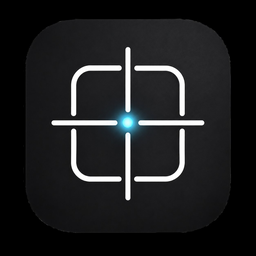
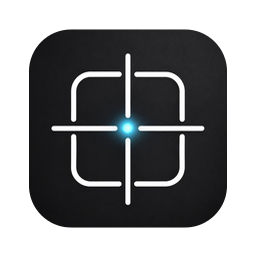
visual

diff --git a/public/index.html b/public/index.html
@@ -2966,15 +2966,22 @@ let micMuted = false;
 let peerConnections = {};
 let audioElements = {};
 
+// ── ICE SERVERS — базовая конфигурация ──
+// Дополнительные TURN серверы загружаются с сервера через /api/ice-servers
 const ICE_CONFIG = {
   iceCandidatePoolSize: 10,
   iceTransportPolicy: 'all',
   iceServers: [
+    // Google STUN — максимально надёжные
     { urls: 'stun:stun.l.google.com:19302' },
     { urls: 'stun:stun1.l.google.com:19302' },
+    { urls: 'stun:stun2.l.google.com:19302' },
+    { urls: 'stun:stun3.l.google.com:19302' },
+    { urls: 'stun:stun4.l.google.com:19302' },
+    // Cloudflare STUN
     { urls: 'stun:stun.cloudflare.com:3478' },
     { urls: 'stun:stun.stunprotocol.org:3478' },
-    // TURN: openrelay.metered.ca
+    // TURN: openrelay.metered.ca (fallback когда прямое соединение невозможно)
     { urls: 'turn:openrelay.metered.ca:80',
       username: 'openrelayproject', credential: 'openrelayproject' },
     { urls: 'turn:openrelay.metered.ca:80?transport=tcp',
@@ -2983,15 +2990,28 @@ const ICE_CONFIG = {
       username: 'openrelayproject', credential: 'openrelayproject' },
     { urls: 'turns:openrelay.metered.ca:443',
       username: 'openrelayproject', credential: 'openrelayproject' },
-    // TURN резервные
-    { urls: 'turn:freestun.net:3479',
-      username: 'free', credential: 'free' },
-    { urls: 'turns:freestun.net:5350',
-      username: 'free', credential: 'free' },
-    { urls: 'turn:numb.viagenie.ca',
-      username: '[email redacted]', credential: 'muazkh' },
+    // Резервные TURN
+    { urls: 'turn:freestun.net:3479',  username: 'free', credential: 'free' },
+    { urls: 'turns:freestun.net:5350', username: 'free', credential: 'free' },
   ]
 };
+
+// ── Загружаем TURN с сервера (Railway env vars → TURN_URL/TURN_USERNAME/TURN_CREDENTIAL) ──
+// Это позволяет добавить нормальные платные TURN без пересборки клиента
+(async function fetchIceServers() {
+  try {
+    const res = await fetch('/api/ice-servers');
+    if (!res.ok) return;
+    const data = await res.json();
+    if (data.iceServers && data.iceServers.length) {
+      // Добавляем серверные серверы ПЕРВЫМИ — они приоритетнее
+      ICE_CONFIG.iceServers = [...data.iceServers, ...ICE_CONFIG.iceServers];
+      console.log('[GRID ICE] Loaded', data.iceServers.length, 'server-side ICE servers');
+    }
+  } catch(e) {
+    // Не критично — используем встроенные серверы
+  }
+})();
 
 // ── VOICE DEVICE SETTINGS ──
 let voiceInputDeviceId = localStorage.getItem('grid_input_device') || '';
@@ -4300,9 +4320,9 @@ async function startCallWebRTC(peerUsername, isInitiator) {
     if (e.candidate) wsSend({ type: 'call_ice', to: peerUsername, candidate: e.candidate });
   };
 
-  callPc.ontrack = (e) => {
+  callPc.ontrack = async (e) => {
     if (e.track.kind !== 'audio') return;
-    console.log('[GRID WebRTC] ontrack — remote audio track received');
+    console.log('[GRID WebRTC] ontrack — remote audio track received, track state:', e.track.readyState);
 
     const outputGainRatio = (typeof outputGainValue !== 'undefined' ? outputGainValue : 200) / 100;
     const remoteStream = (e.streams && e.streams[0])
@@ -4315,14 +4335,42 @@ async function startCallWebRTC(peerUsername, isInitiator) {
       audio.id = 'call-remote-audio';
       audio.autoplay = true;
       audio.setAttribute('playsinline', '');
+      audio.setAttribute('webkit-playsinline', '');
       audio.style.display = 'none';
       document.body.appendChild(audio);
     }
-    // Сохраняем RAW поток — нужен для speaking detection analyser
+
+    // Сохраняем RAW поток для speaking detection analyser
     audio._rawStream = remoteStream;
 
+    // ── Функция воспроизведения — надёжная для Electron ──
+    // В Electron с autoplay-policy=no-user-gesture-required это всегда работает
+    // В браузере — требует gesture, поэтому вешаем несколько fallback
+    async function playAudio(audioEl) {
+      try {
+        await audioEl.play();
+        console.log('[GRID WebRTC] audio.play() success');
+      } catch(err) {
+        console.warn('[GRID WebRTC] audio.play() blocked:', err.name, '— adding interaction fallback');
+        // Множественные fallback для всех случаев
+        const retry = () => { audioEl.play().catch(e => console.warn('[GRID] retry play failed:', e)); };
+        document.addEventListener('pointerdown', retry, { once: true });
+        document.addEventListener('keydown',     retry, { once: true });
+        document.addEventListener('click',       retry, { once: true });
+      }
+    }
+
+    // ── Пытаемся использовать AudioContext для gain >100% ──
     try {
-      const outCtx = new (window.AudioContext || window.webkitAudioContext)();
+      const outCtx = new (window.AudioContext || window.webkitAudioContext)({ latencyHint: 'interactive', sampleRate: 48000 });
+
+      // КРИТИЧНО: resume() ДОЛЖЕН завершиться до createMediaStreamSource
+      // В Electron без autoplay-policy AudioContext стартует suspended
+      if (outCtx.state !== 'running') {
+        await outCtx.resume();
+        console.log('[GRID WebRTC] AudioContext resumed, state:', outCtx.state);
+      }
+
       const outSrc  = outCtx.createMediaStreamSource(remoteStream);
       const outGain = outCtx.createGain();
       outGain.gain.value = outputGainRatio;
@@ -4334,34 +4382,30 @@ async function startCallWebRTC(peerUsername, isInitiator) {
       audio.srcObject = outDest.stream;
       audio.volume = 1;
       audio.muted = callSoundMuted;
-      audio.play().catch(() => {
-        document.addEventListener('click', () => audio.play().catch(() => {}), { once: true });
-      });
       applySinkId(audio);
-      outCtx.resume().catch(() => {});
+      await playAudio(audio);
+
     } catch(err) {
-      console.warn('[GRID WebRTC] AudioContext fallback:', err.message);
+      // Fallback: напрямую без AudioContext — всегда работает
+      console.warn('[GRID WebRTC] AudioContext failed, using direct srcObject:', err.message);
       audio.srcObject = remoteStream;
-      audio.volume = Math.min(1, outputGainRatio);
+      audio.volume = Math.min(1, outputGainRatio); // Ограничено 100% без GainNode
       audio.muted = callSoundMuted;
-      audio.play().catch(() => {
-        document.addEventListener('click', () => audio.play().catch(() => {}), { once: true });
-      });
       applySinkId(audio);
+      await playAudio(audio);
       callOutputGainNode = { gain: {
         get value()  { return audio.volume; },
         set value(v) { audio.volume = Math.min(1, Math.max(0, v)); }
       }};
     }
 
-    // ── Перезапускаем speaking detection теперь когда аудио реально есть ──
-    // Небольшая задержка чтобы srcObject успел примениться
-    setTimeout(() => {
+    // ── Запускаем speaking detection с задержкой (srcObject должен "прогреться") ──
+    setTimeout(async () => {
       if (typeof startSpeakingDetection === 'function') {
-        console.log('[GRID WebRTC] Restarting speaking detection after ontrack');
-        startSpeakingDetection();
+        console.log('[GRID WebRTC] Starting speaking detection after ontrack');
+        await startSpeakingDetection();
       }
-    }, 400);
+    }, 500);
   };
 
   callPc.onconnectionstatechange = () => {
@@ -5503,7 +5547,7 @@ function resizeViz(canvas) {
 }
 
 // ── Speaking detection via Web Audio API ──
-function startSpeakingDetection() {
+async function startSpeakingDetection() {
   stopSpeakingDetection();
 
   const vizMe   = document.getElementById('viz-me');
@@ -5511,36 +5555,41 @@ function startSpeakingDetection() {
   resizeViz(vizMe);
   resizeViz(vizPeer);
 
-  // My mic → analyser
+  // ── МОЙ МИК → analyser ──
   if (callStream) {
     try {
-      const ctx = new (window.AudioContext || window.webkitAudioContext)();
+      const ctx = new (window.AudioContext || window.webkitAudioContext)({ latencyHint: 'interactive' });
+      if (ctx.state !== 'running') await ctx.resume();
       const src = ctx.createMediaStreamSource(callStream);
       speakAnalyserMe = ctx.createAnalyser();
       speakAnalyserMe.fftSize = 256;
       speakAnalyserMe.smoothingTimeConstant = 0.72;
       src.connect(speakAnalyserMe);
       speakBufMe = new Uint8Array(speakAnalyserMe.frequencyBinCount);
-    } catch(e) { console.warn('speakAnalyserMe failed', e); }
+      console.log('[GRID Speaking] My analyser ready, ctx state:', ctx.state);
+    } catch(e) { console.warn('[GRID Speaking] My analyser failed:', e); }
   }
 
-  // Peer audio → analyser
-  // Используем _rawStream (чистый WebRTC поток) а не srcObject (уже обработанный через GainNode)
+  // ── ПИРОВ АУДИО → analyser ──
+  // _rawStream = чистый WebRTC поток (до GainNode обработки) — нужен для корректного анализа
   const peerAudio = document.getElementById('call-remote-audio');
   const peerStream = peerAudio && (peerAudio._rawStream || peerAudio.srcObject);
-  if (peerStream) {
+  if (peerStream && peerStream.getAudioTracks().length > 0) {
     try {
-      const ctx = new (window.AudioContext || window.webkitAudioContext)();
+      const ctx = new (window.AudioContext || window.webkitAudioContext)({ latencyHint: 'interactive' });
+      // КРИТИЧНО: resume() ДОЛЖЕН завершиться до createMediaStreamSource
+      // Без этого в Electron analyser получает нулевые данные → анимация не работает
+      if (ctx.state !== 'running') await ctx.resume();
       const src = ctx.createMediaStreamSource(peerStream);
       speakAnalyserPeer = ctx.createAnalyser();
       speakAnalyserPeer.fftSize = 256;
       speakAnalyserPeer.smoothingTimeConstant = 0.72;
       src.connect(speakAnalyserPeer);
       speakBufPeer = new Uint8Array(speakAnalyserPeer.frequencyBinCount);
-      ctx.resume().catch(() => {});
-    } catch(e) { console.warn('speakAnalyserPeer failed', e); }
+      console.log('[GRID Speaking] Peer analyser ready, ctx state:', ctx.state, '| stream tracks:', peerStream.getAudioTracks().length);
+    } catch(e) { console.warn('[GRID Speaking] Peer analyser failed:', e); }
   } else {
-    console.log('[GRID] Speaking detection: no peer stream yet, peer analyser skipped');
+    console.log('[GRID Speaking] No peer stream yet, will retry on next startSpeakingDetection call');
   }
 
   // Unified RAF loop — both canvases in one frame
@@ -5805,21 +5854,8 @@ window.endCallUI = function() {
   for (const k in callPeerVol) delete callPeerVol[k];
 };
 
-// ── Patch startCallWebRTC to start speaking detection on track received ──
-const _origStartCallWebRTC = startCallWebRTC;
-window.startCallWebRTC = async function(peerUsername, isInitiator) {
-  await _origStartCallWebRTC(peerUsername, isInitiator);
-  // Re-attach speaking detection when track arrives
-  const origOnTrack = callPc ? callPc.ontrack : null;
-  if (callPc) {
-    callPc.ontrack = function(e) {
-      if (origOnTrack) origOnTrack.call(this, e);
-      setTimeout(() => {
-        if (callActive) startSpeakingDetection();
-      }, 500);
-    };
-  }
-};
+// ── startCallWebRTC wrapped — speaking detection запускается в самом ontrack ──
+// (patch удалён: ontrack уже вызывает startSpeakingDetection напрямую)
 </script>
 <script>
 // ══════════════════════════════════════

diff --git a/main.js b/main.js
@@ -85,6 +85,38 @@ let mainWindow = null;
 let tray = null;
 let isQuitting = false;
 
+// ══════════════════════════════════════════════════════
+//  ELECTRON AUDIO + WEBRTC QUALITY SWITCHES
+//  MUST be called before app.whenReady()
+// ══════════════════════════════════════════════════════
+
+// 🔑 FIX #1: Autoplay policy — без этого audio.play() в WebRTC молча блокируется
+// потому что ontrack срабатывает асинхронно, gesture context уже протух
+app.commandLine.appendSwitch('autoplay-policy', 'no-user-gesture-required');
+
+// FIX #2: Отключаем фичу которая может переопределить autoplay-policy
+app.commandLine.appendSwitch('disable-features', 'AutoplayIgnoreWebAudio,HardwareMediaKeyHandling,MediaSessionService');
+
+// FIX #3: WebRTC audio processing — включаем всё что нужно для качества
+app.commandLine.appendSwitch('enable-features',
+  'WebRTCAudioProcessing,' +
+  'WebRTC-H264WithOpenH264FFmpeg,' +
+  'WebRTC-Audio-SendSideBwe,' +
+  'WebRTC-SendSideBwe-WithOverhead'
+);
+
+// FIX #4: Буфер аудио — меньше буфер = меньше задержка (как в Discord)
+app.commandLine.appendSwitch('audio-buffer-size', '256');
+
+// FIX #5: Принудительно высокое качество аудио в Chromium
+app.commandLine.appendSwitch('force-fieldtrials',
+  'WebRTC-Audio-Sf/Enabled/' +
+  'WebRTC-Audio-NetEq-Nack/Enabled/'
+);
+
+// FIX #6: WebRTC не должен ограничивать IP (нужно для ICE)
+app.commandLine.appendSwitch('webrtc-ip-handling-policy', 'default');
+
 // ── Одна копия приложения ──
 const gotLock = app.requestSingleInstanceLock();
 if (!gotLock) { app.quit(); process.exit(0); }
@@ -198,11 +230,27 @@ function createWindow() {
       nodeIntegration: false,
       contextIsolation: true,
       preload: path.join(__dirname, 'preload.js'),
+      // FIX #7: Без этого аудио режется когда окно свёрнуто (Chromium throttling)
+      backgroundThrottling: false,
+      // Явно разрешаем WebRTC
+      webSecurity: true,
     },
     show: false,
   });
 
   mainWindow.loadURL('https://grid-production-f3f4.up.railway.app');
+
+  // FIX #8: Автоматически разрешаем микрофон/камеру — без этого getUserMedia
+  // может молча фейлиться в Electron или показывать системный диалог
+  mainWindow.webContents.session.setPermissionRequestHandler((webContents, permission, callback) => {
+    const allowed = ['media', 'audioCapture', 'videoCapture', 'microphone', 'camera', 'notifications'];
+    console.log('[GRID Electron] Permission request:', permission, '→', allowed.includes(permission) ? 'ALLOW' : 'DENY');
+    callback(allowed.includes(permission));
+  });
+
+  mainWindow.webContents.session.setPermissionCheckHandler((webContents, permission) => {
+    return ['media', 'audioCapture', 'videoCapture', 'microphone', 'camera', 'notifications'].includes(permission);
+  });
 
   mainWindow.webContents.on('did-finish-load', () => {
     injectTitlebar();

diff --git a/server.js b/server.js
@@ -166,6 +166,39 @@ app.post('/api/avatar', async (req, res) => {
   }
 });
 
+// ── ICE Servers API — позволяет настраивать TURN через Railway env vars ──
+// Установи в Railway: TURN_URL, TURN_USERNAME, TURN_CREDENTIAL
+// Например: TURN_URL=turn:your-server.com:3478
+app.get('/api/ice-servers', (req, res) => {
+  const servers = [];
+
+  // Если в env есть кастомный TURN — добавляем его первым (высший приоритет)
+  if (process.env.TURN_URL) {
+    const entry = { urls: process.env.TURN_URL };
+    if (process.env.TURN_USERNAME) entry.username = process.env.TURN_USERNAME;
+    if (process.env.TURN_CREDENTIAL) entry.credential = process.env.TURN_CREDENTIAL;
+    servers.push(entry);
+
+    // TCP fallback для того же сервера
+    if (!process.env.TURN_URL.includes('transport=')) {
+      const tcpEntry = { urls: process.env.TURN_URL + '?transport=tcp' };
+      if (process.env.TURN_USERNAME) tcpEntry.username = process.env.TURN_USERNAME;
+      if (process.env.TURN_CREDENTIAL) tcpEntry.credential = process.env.TURN_CREDENTIAL;
+      servers.push(tcpEntry);
+    }
+  }
+
+  // Если в env есть второй TURN — тоже добавляем
+  if (process.env.TURN_URL_2) {
+    const entry2 = { urls: process.env.TURN_URL_2 };
+    if (process.env.TURN_USERNAME_2) entry2.username = process.env.TURN_USERNAME_2;
+    if (process.env.TURN_CREDENTIAL_2) entry2.credential = process.env.TURN_CREDENTIAL_2;
+    servers.push(entry2);
+  }
+
+  res.json({ iceServers: servers });
+});
+
 const channels = { 'общий': [], 'игры': [], 'фидбек': [] };
 const onlineUsers = new Map();
 const dmHistory = new Map();